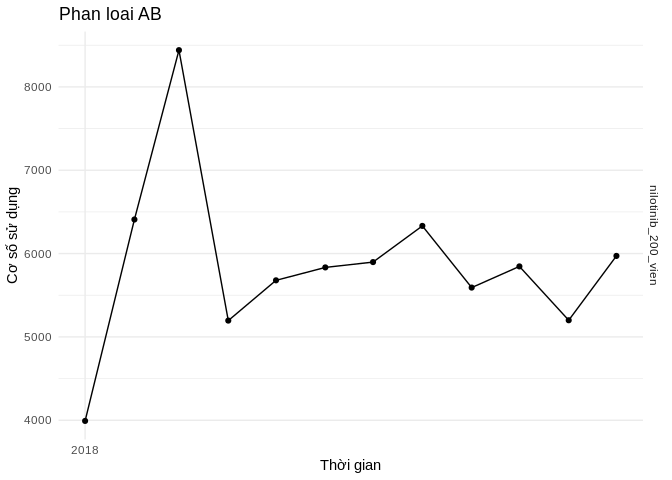
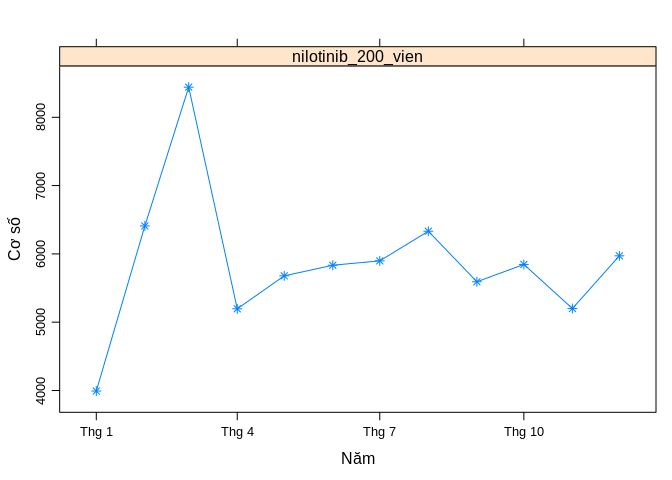
update chart

diff --git a/3.2.2.2.Xac_dinh_thoi_diem_tang_giam_sd_hoatchat_sd_nhieu_nam_2018.md b/3.2.2.2.Xac_dinh_thoi_diem_tang_giam_sd_hoatchat_sd_nhieu_nam_2018.md
@@ -1,31 +1,31 @@
 ### Bieu do (dua vao bai viet)
 
 ``` r
-bieudo_coso_phanloai("AA")
+bieudo_coso_phanloai_2("AA")
 ```
 
 ![](3.2.2.2.Xac_dinh_thoi_diem_tang_giam_sd_hoatchat_sd_nhieu_nam_2018_files/figure-markdown_github/bieudo-1.png)
 
 ``` r
-bieudo_coso_phanloai("AB")
+bieudo_coso_phanloai_2("AB")
 ```
 
 ![](3.2.2.2.Xac_dinh_thoi_diem_tang_giam_sd_hoatchat_sd_nhieu_nam_2018_files/figure-markdown_github/bieudo-2.png)
 
 ``` r
-bieudo_coso_phanloai("AC")
+bieudo_coso_phanloai_2("AC")
 ```
 
 ![](3.2.2.2.Xac_dinh_thoi_diem_tang_giam_sd_hoatchat_sd_nhieu_nam_2018_files/figure-markdown_github/bieudo-3.png)
 
 ``` r
-bieudo_coso_phanloai("BB")
+bieudo_coso_phanloai_2("BB")
 ```
 
 ![](3.2.2.2.Xac_dinh_thoi_diem_tang_giam_sd_hoatchat_sd_nhieu_nam_2018_files/figure-markdown_github/bieudo-4.png)
 
 ``` r
-bieudo_coso_phanloai("BC")
+bieudo_coso_phanloai_2("BC")
 ```
 
 ![](3.2.2.2.Xac_dinh_thoi_diem_tang_giam_sd_hoatchat_sd_nhieu_nam_2018_files/figure-markdown_github/bieudo-5.png)
